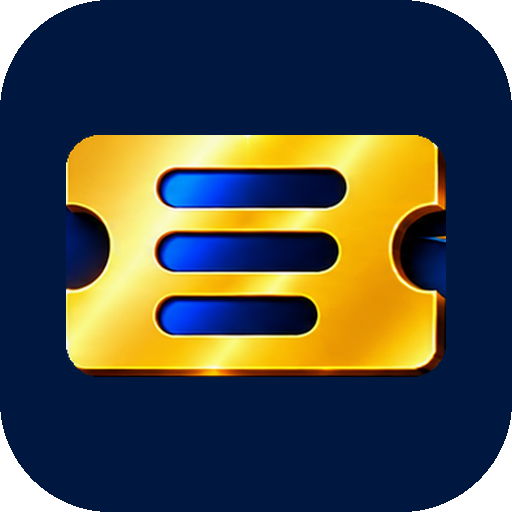
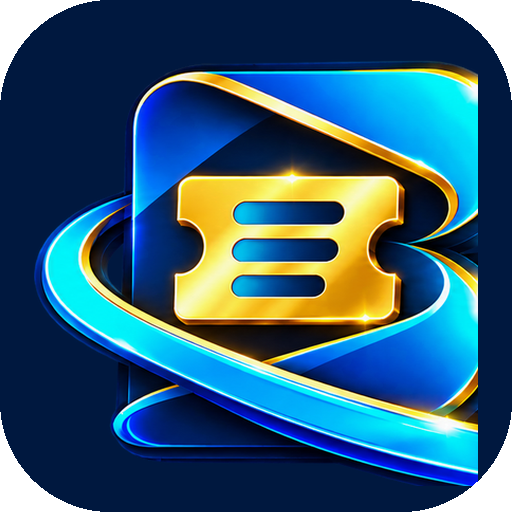
Updated New Company name

diff --git a/CHANGES.md b/CHANGES.md
@@ -41,3 +41,6 @@ Dependencies removed: `pdfkit`, `qrcode` (+ types). Frontend: every invoice / qu
 
 ## Fix: applying for leave
 - `backend/src/routes/requests.routes.ts` — the leave form sends an empty title, which became `null` and failed validation (`title: Expected string, received null`). `title` now accepts null; the server fills in "<Type> leave". Regression check added in `tests/helpdesk.test.ts`.
+
+## Logo update (new Barid-IN logo)
+- `frontend/public/`: `barid-logo.png`, `barid-logo-nav.png` (used by the top bar and the login page), `barid-mark.png` and `favicon.png` regenerated from the new logo (transparent, cropped to content, same 1400px width and aspect ratio as before, so no code or CSS changes).
